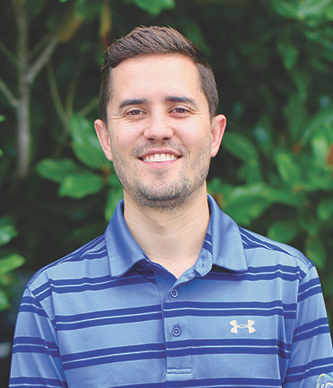
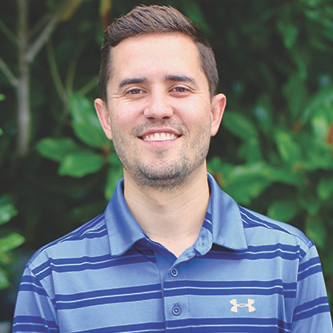
squared photos and transitioned to JZ testimonial format

diff --git a/index.html b/index.html
@@ -140,10 +140,10 @@
 		</div>
 
 		<div class="row testimonial-row">
-			<div class="col-xs-12 col-sm-5 col-lg-4 col-lg-offset-1 text-center">
-				<img src="./assets/images/alr_headshot.png" id="alr-photo">
+			<div class="col-xs-12 col-sm-5 col-lg-4 text-center">
+				<img src="./assets/images/alr_headshot.png" class="testimonial-photo" id="alr-photo">
 			</div>
-			<div class="col-xs-10 col-xs-offset-1 col-sm-5 col-sm-offset-1 col-lg-7 col-lg-offset-0"
+			<div class="col-xs-10 col-xs-offset-1 col-sm-5 col-sm-offset-1 col-lg-7 col-lg-offset-0 testimonial"
 				id="alr-testimonial">
 				<p>"Justin has been a critical resource at pivotal times in my career. <b>Justin was a linchpin in both
 						the strategy and execution of successful fundraises all the way through the sale of our software
@@ -160,10 +160,10 @@
 		</div>
 
 		<div class="row testimonial-row">
-			<div class="col-xs-12 col-sm-5 col-lg-4 col-lg-offset-1 text-center">
-				<img src="./assets/images/cohn_headshot.jpg" id="cohn-photo">
+			<div class="col-xs-12 col-sm-5 col-lg-4 text-center">
+				<img src="./assets/images/cohn_headshot.jpg" class="testimonial-photo" id="cohn-photo">
 			</div>
-			<div class="col-xs-10 col-xs-offset-1 col-sm-5 col-sm-offset-1 col-lg-7 col-lg-offset-0"
+			<div class="col-xs-10 col-xs-offset-1 col-sm-5 col-sm-offset-1 col-lg-7 col-lg-offset-0 testimonial"
 				id="alr-testimonial">
 				<p>"<b>I've worked with a few different coaches over the years, but none have helped me find clarity in
 						what's most important like Justin.</b> I look forward to our sessions each Sunday, as they're
@@ -180,11 +180,11 @@
 		</div>
 
 		<div class="row testimonial-row">
-			<div class="col-xs-12 col-sm-5 col-lg-4 col-lg-offset-1 text-center">
-				<img src="./assets/images/meb_headshot.jpeg" id="meb-photo">
+			<div class="col-xs-12 col-sm-5 col-lg-4 text-center">
+				<img src="./assets/images/meb_headshot.jpeg" class="testimonial-photo" id="meb-photo">
 			</div>
-			<div class="col-xs-10 col-xs-offset-1 col-sm-5 col-sm-offset-1 col-lg-7 col-lg-offset-0">
-				<p>Justin’s coaching has been invaluable to me and my business. One of the most pivotal aspects has been
+			<div class="col-xs-10 col-xs-offset-1 col-sm-5 col-sm-offset-1 col-lg-7 col-lg-offset-0 testimonial">
+				<p>"Justin’s coaching has been invaluable to me and my business. One of the most pivotal aspects has been
 					Justin’s ability to walk the line of gentle but earnest guidance and encouragement while still
 					giving me full ownership of my process. I feel immense pride and accomplishment in all the progress
 					that I make with his support as a partner.<br><br>
@@ -199,18 +199,18 @@
 						all the little moments of uncertainty are actually right where I need to be. It all comes
 						together to create more growth in my personal process and business than I have ever experienced
 						working alone, or in any other capacity.</b> I cannot possibly recommend working with him highly
-					enough.<br><br>
+					enough."<br><br>
 
 					- Molly Bennett</a>, Solopreneur, Fajardo Method Practitioner
 			</div>
 		</div>
 
 		<div class="row testimonial-row">
-			<div class="col-xs-12 col-sm-5 col-lg-4 col-lg-offset-1 text-center">
-				<img src="./assets/images/raw_headshot.png" id="raw-photo">
+			<div class="col-xs-12 col-sm-5 col-lg-4 text-center">
+				<img src="./assets/images/raw_headshot.png" class="testimonial-photo" id="raw-photo">
 			</div>
-			<div class="col-xs-10 col-xs-offset-1 col-sm-5 col-sm-offset-1 col-lg-7 col-lg-offset-0">
-				<p><b>Since I started with Justin about six months ago, my revenue has nearly doubled.</b> He did this
+			<div class="col-xs-10 col-xs-offset-1 col-sm-5 col-sm-offset-1 col-lg-7 col-lg-offset-0 testimonial">
+				<p><b>"Since I started with Justin about six months ago, my revenue has nearly doubled.</b> He did this
 					by expertly helping me remove physical and mental blockers that I didn’t even know I had to make
 					room for smart decisions to move my income upward. The best part is, at the same time, <b>he made
 						sure my decision-making fundamentally resonated with who I am as a person.</b><br><br>
@@ -222,7 +222,7 @@
 					<b>His unique approach beautifully balances psychological and emotional awareness with hard-hitting
 						strategy and clarity of direction.</b> When working with Justin, no stone will go unturned no
 					matter the shape or size. Yet, he will make this seemingly arduous and overwhelming process of doing
-					so unbelievably invigorating, positive, and comfortable.<br><br>
+					so unbelievably invigorating, positive, and comfortable."<br><br>
 
 					-<a href="https://www.aaronwaltersmusic.com/" target="_blank">Aaron Walters</a>, Solopreneur,
 					Producer, Composer, Live + Studio Musician

diff --git a/css/responsive.css b/css/responsive.css
@@ -38,6 +38,40 @@
 	}
 }
 
+/* Weird stuff could probably fit in a diff media query but this is the only way I got it to work :shrug:*/
+
+@media screen AND (max-width: 800px) {
+	.fractal-container {
+		width: 300%;
+		margin-left: -50%;
+	}
+	.vertical-center {
+		flex-direction: column;
+	}
+	.header-text {
+		font-size: 10vw;
+	}
+	.font-change-bold {
+		font-size: 10vw;
+	}
+	#profile-photo {
+		margin-top: 40px;
+	}
+	.desktop-display {
+		display: none;
+	}
+	.mobile-display {
+		display: block;
+	}
+	.tagline {
+		padding: 20px;
+		text-align: center;
+	}
+	.font-change-bold {
+		font-size: 19vw;
+	}
+}
+
 @media screen AND (min-width: 990px) {
 	#about-photo {
 		width: 70%;
@@ -82,38 +116,15 @@
 	#bio {
 		margin-top: 5%;
 	}
+
+	.testimonial-row {
+		/*margin: 50px 8% 0;*/
+	}
 }
 
-/* Weird stuff could probably fit in a diff media query but this is the only way I got it to work :shrug:*/
+@media screen AND (min-width: 1800px) {
 
-@media screen AND (max-width: 800px) {
-	.fractal-container {
-		width: 300%;
-		margin-left: -50%;
-	}
-	.vertical-center {
-		flex-direction: column;
-	}
-	.header-text {
-		font-size: 10vw;
-	}
-	.font-change-bold {
-		font-size: 10vw;
-	}
-	#profile-photo {
-		margin-top: 40px;
-	}
-	.desktop-display {
-		display: none;
-	}
-	.mobile-display {
-		display: block;
-	}
-	.tagline {
-		padding: 20px;
-		text-align: center;
-	}
-	.font-change-bold {
-		font-size: 19vw;
+	.testimonial-row {
+		margin: 50px 8% 0;
 	}
 }

diff --git a/css/main.css b/css/main.css
@@ -121,6 +121,7 @@ PAGE: HOME
 	border-radius: 10%;
 	width: 60%;
 	min-width: 350px;
+	max-width: 500px;
 	border: 2px solid #ddd;
 }
 
@@ -128,9 +129,26 @@ PAGE: HOME
 	font-weight: 400;
 }
 
+.testimonial-row {
+	margin: 50px 2% 0;
+	background: white;
+	color: black;
+	padding: 20px;
+	border: 2px solid #ddd;
+}
+
+.testimonial-photo {
+	width: 100%;
+	max-width: 500px;
+}
+
+.testimonial {
+	margin-top: 20px;
+}
+
 #about-photo {
 	width: 70%;
-	max-width: 600px;
+	max-width: 500px;
 }
 
 .secondary-p-container {
@@ -138,33 +156,6 @@ PAGE: HOME
 	color: black;
 	padding: 10px;
 	margin-top: 20px;
-	border: 2px solid #ddd;
-}
-
-#alr-photo {
-	max-width: 100%;
-}
-
-#cohn-photo {
-	width: 100%;
-	max-width: 388px;
-}
-
-#raw-photo {
-	width: 100%;
-	max-width: 500px;
-}
-
-#meb-photo {
-	width: 100%;
-	max-width: 500px;
-}
-
-.testimonial-row {
-	margin: 50px 2% 0;
-	background: white;
-	color: black;
-	padding: 10px;
 	border: 2px solid #ddd;
 }
 
